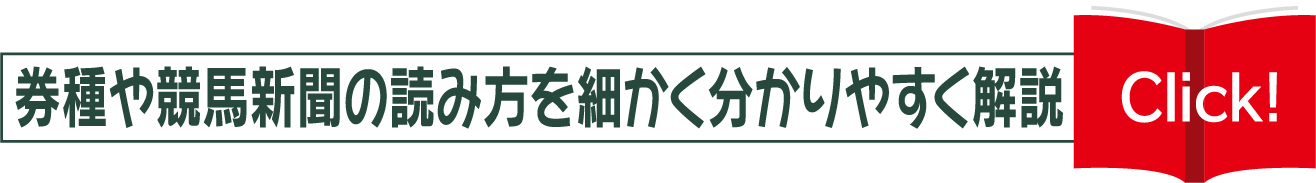
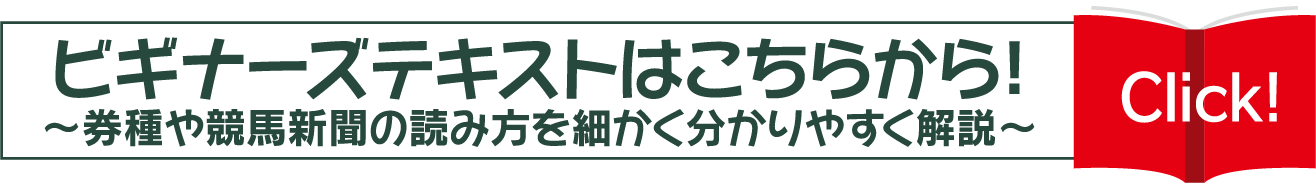
テキスト修正、バナー修正、PDFの遷移先修正

Changed region(s): [[0.0, 0.1913, 0.8412, 0.8197], [0.0, 0.847, 0.8412, 0.8743], [0.0, 0.1093, 0.8412, 0.1366]]

diff --git a/2203_beginner/beginner/seminar/index.php b/2203_beginner/beginner/seminar/index.php
@@ -38,7 +38,7 @@
 			
 				<div class="slide-box">
 					<div class="fv">
-                        <p class="fv__text"><a href="./pdf/text2019.pdf" target="_blabk"><img src="img/top-slide01__text.png" width="" height="" alt=""/></a></p>
+                        <p class="fv__text"><a href="./pdf/BeginnersBook.pdf" target="_blabk"><img src="img/top-slide01__text.png" width="" height="" alt=""/></a></p>
                         <div class="fv__bg"><img src="img/top-slide01.jpg" width="100%" height="" alt="" class="pc"><img src="img/top-slide01_sp.jpg" width="100%" height="" alt="" class="sp"></div>
 					</div>
 				</div>
@@ -192,7 +192,7 @@
 										・競馬会は、応募者情報を、本オンラインセミナーに関する業務の委託先において、法令等に基づき管理いたします。<br>
 										・競馬会は、応募者情報を、応募者の同意を得ることなく、当該委託先以外の第三者に開示することはありません。ただし、法令により開示を求められた場合、お申し込み時に応募者より開示が許されている場合、または裁判所・警察署等の公的機関から開示を求められた場合は、応募者の同意なく、応募者情報を開示することがあります。 <br>
 										・その他個人情報の取り扱いにつきましては、<a href="http:company.jra.jp/privercy/index.html">http:company.jra.jp/privercy/index.html</a><br>
-										+（モバイル版：<a href="htto://jra.jp/about.html">htto://jra.jp/about.html</a>）をご覧ください。<br>
+										+（モバイル版：<a href="http://jra.jp/about.html">http://jra.jp/about.html</a>）をご覧ください。<br>
 										<br>
 										１５． 変更<br>
 										・競馬会は、本オンラインセミナーの内容（期間等）または本規約を予告なく変更する場合があります。変更があった場合は、本サイトにてお知らせします。掲載後は、変更後の本オンラインセミナーの内容または本規約が全ての参加者に適用されます。<br>
@@ -203,7 +203,7 @@
 										【お問い合わせ】<br>
 										オンラインビギナーズセミナー運営事務局<br>
 										メール：<a href="mailto:ra-seminar@contact-info.jp">jra-seminar@contact-info.jp</a> <br>
-										開設期間：2022年3月5日（月）〜2022年5月26日（日）<br>
+										開設期間：2022年3月5日（月）〜2022年5月29日（日）<br>
 										※17時以降に受信した問い合わせは、翌朝以降にご返信させて頂きます。<br>
 										※本オンラインセミナー実施日を除く土・日・祝日はお休みさせて頂きます。<br>
 										※お問い合わせ内容によっては、ご返答に時間がかかる場合やお答えできない場合がございますので、あらかじめご了承ください。<br>
